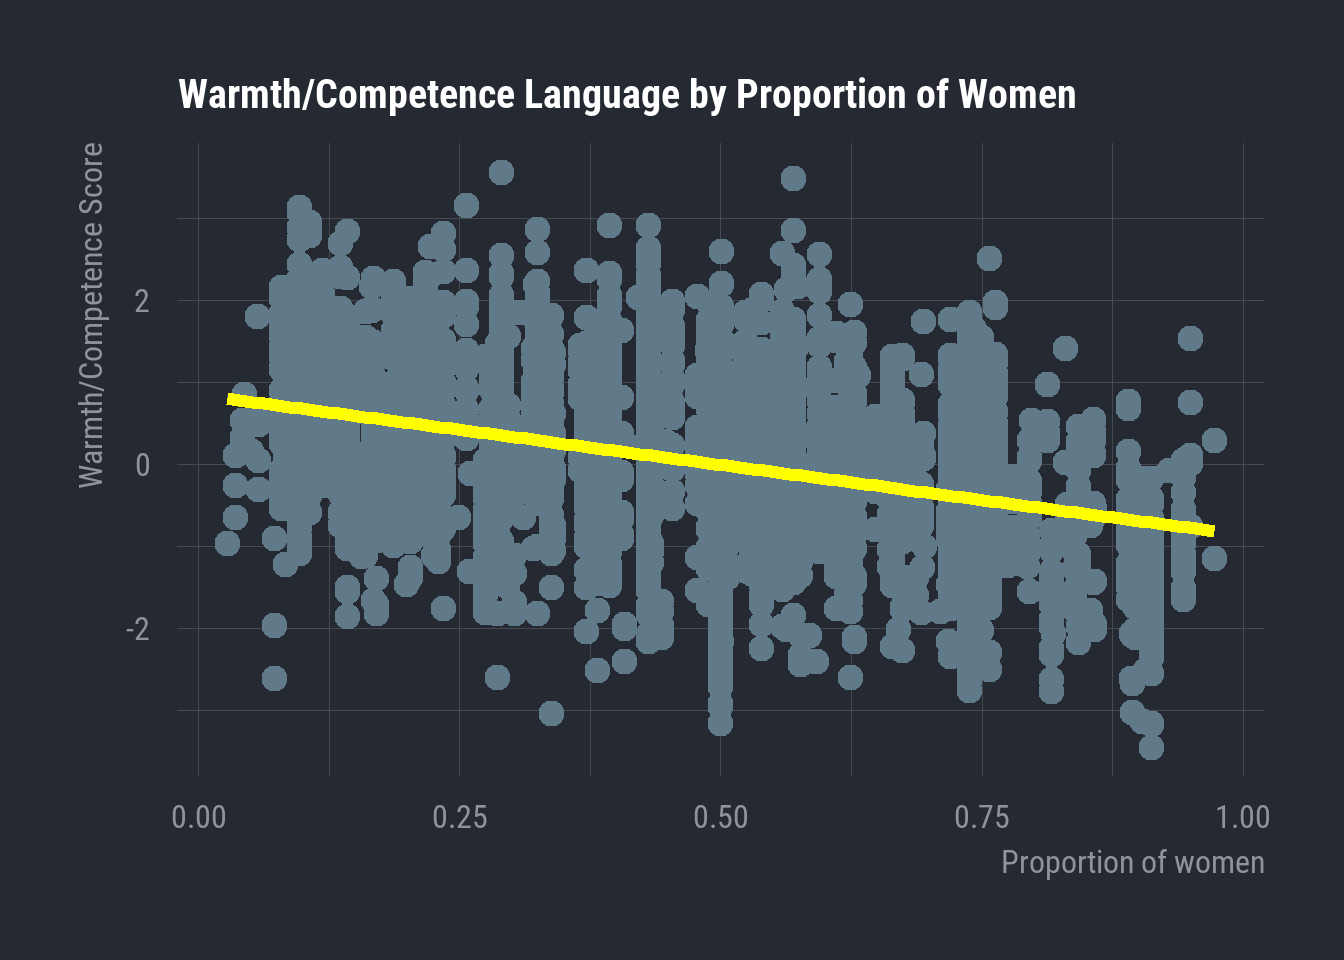
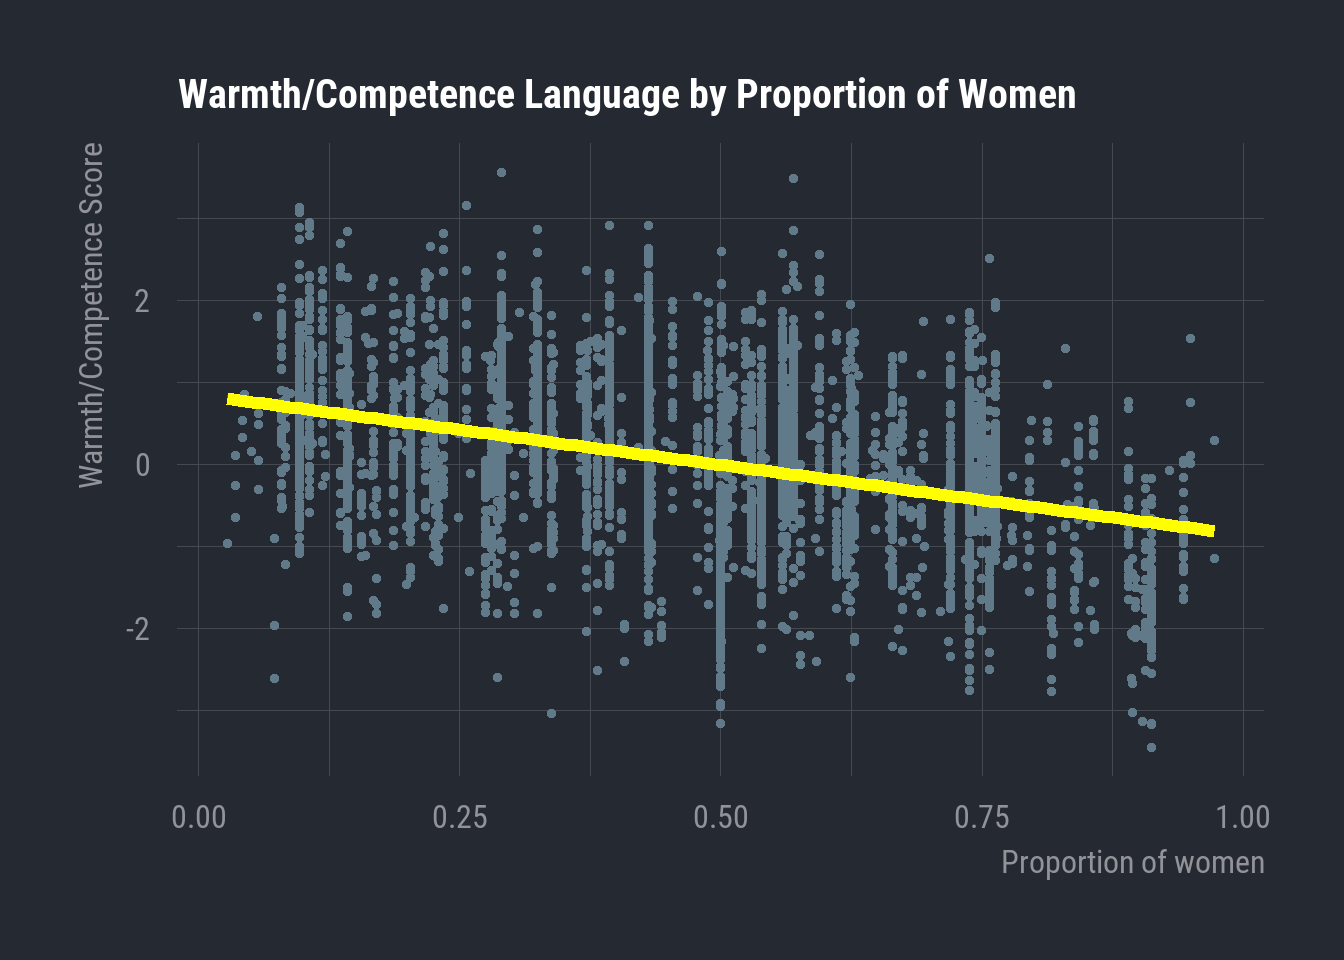
Reducing point size in GLM.qmd plots

diff --git a/docs/general_linear_model.html b/docs/general_linear_model.html
@@ -374,23 +374,23 @@ window.Quarto = {
 <p>Let’s take a look at one such combination of variables.</p>
 <div class="cell">
 <div class="cell-output-display">
-<div id="hhenulwehp" style="padding-left:0px;padding-right:0px;padding-top:10px;padding-bottom:10px;overflow-x:auto;overflow-y:auto;width:auto;height:auto;">
-<style>#hhenulwehp table {
+<div id="mmmtnuhhvp" style="padding-left:0px;padding-right:0px;padding-top:10px;padding-bottom:10px;overflow-x:auto;overflow-y:auto;width:auto;height:auto;">
+<style>#mmmtnuhhvp table {
   font-family: system-ui, 'Segoe UI', Roboto, Helvetica, Arial, sans-serif, 'Apple Color Emoji', 'Segoe UI Emoji', 'Segoe UI Symbol', 'Noto Color Emoji';
   -webkit-font-smoothing: antialiased;
   -moz-osx-font-smoothing: grayscale;
 }
 
-#hhenulwehp thead, #hhenulwehp tbody, #hhenulwehp tfoot, #hhenulwehp tr, #hhenulwehp td, #hhenulwehp th {
+#mmmtnuhhvp thead, #mmmtnuhhvp tbody, #mmmtnuhhvp tfoot, #mmmtnuhhvp tr, #mmmtnuhhvp td, #mmmtnuhhvp th {
   border-style: none;
 }
 
-#hhenulwehp p {
+#mmmtnuhhvp p {
   margin: 0;
   padding: 0;
 }
 
-#hhenulwehp .gt_table {
+#mmmtnuhhvp .gt_table {
   display: table;
   border-collapse: collapse;
   line-height: normal;
@@ -416,12 +416,12 @@ window.Quarto = {
   border-left-color: #D3D3D3;
 }
 
-#hhenulwehp .gt_caption {
+#mmmtnuhhvp .gt_caption {
   padding-top: 4px;
   padding-bottom: 4px;
 }
 
-#hhenulwehp .gt_title {
+#mmmtnuhhvp .gt_title {
   color: #333333;
   font-size: 125%;
   font-weight: initial;
@@ -433,7 +433,7 @@ window.Quarto = {
   border-bottom-width: 0;
 }
 
-#hhenulwehp .gt_subtitle {
+#mmmtnuhhvp .gt_subtitle {
   color: #333333;
   font-size: 85%;
   font-weight: initial;
@@ -445,7 +445,7 @@ window.Quarto = {
   border-top-width: 0;
 }
 
-#hhenulwehp .gt_heading {
+#mmmtnuhhvp .gt_heading {
   background-color: #FFFFFF;
   text-align: center;
   border-bottom-color: #FFFFFF;
@@ -457,13 +457,13 @@ window.Quarto = {
   border-right-color: #D3D3D3;
 }
 
-#hhenulwehp .gt_bottom_border {
+#mmmtnuhhvp .gt_bottom_border {
   border-bottom-style: solid;
   border-bottom-width: 2px;
   border-bottom-color: #D3D3D3;
 }
 
-#hhenulwehp .gt_col_headings {
+#mmmtnuhhvp .gt_col_headings {
   border-top-style: solid;
   border-top-width: 2px;
   border-top-color: #D3D3D3;
@@ -478,7 +478,7 @@ window.Quarto = {
   border-right-color: #D3D3D3;
 }
 
-#hhenulwehp .gt_col_heading {
+#mmmtnuhhvp .gt_col_heading {
   color: #333333;
   background-color: #FFFFFF;
   font-size: 100%;
@@ -498,7 +498,7 @@ window.Quarto = {
   overflow-x: hidden;
 }
 
-#hhenulwehp .gt_column_spanner_outer {
+#mmmtnuhhvp .gt_column_spanner_outer {
   color: #333333;
   background-color: #FFFFFF;
   font-size: 100%;
@@ -510,15 +510,15 @@ window.Quarto = {
   padding-right: 4px;
 }
 
-#hhenulwehp .gt_column_spanner_outer:first-child {
+#mmmtnuhhvp .gt_column_spanner_outer:first-child {
   padding-left: 0;
 }
 
-#hhenulwehp .gt_column_spanner_outer:last-child {
+#mmmtnuhhvp .gt_column_spanner_outer:last-child {
   padding-right: 0;
 }
 
-#hhenulwehp .gt_column_spanner {
+#mmmtnuhhvp .gt_column_spanner {
   border-bottom-style: solid;
   border-bottom-width: 2px;
   border-bottom-color: #D3D3D3;
@@ -530,11 +530,11 @@ window.Quarto = {
   width: 100%;
 }
 
-#hhenulwehp .gt_spanner_row {
+#mmmtnuhhvp .gt_spanner_row {
   border-bottom-style: hidden;
 }
 
-#hhenulwehp .gt_group_heading {
+#mmmtnuhhvp .gt_group_heading {
   padding-top: 8px;
   padding-bottom: 8px;
   padding-left: 5px;
@@ -560,7 +560,7 @@ window.Quarto = {
   text-align: left;
 }
 
-#hhenulwehp .gt_empty_group_heading {
+#mmmtnuhhvp .gt_empty_group_heading {
   padding: 0.5px;
   color: #333333;
   background-color: #FFFFFF;
@@ -575,15 +575,15 @@ window.Quarto = {
   vertical-align: middle;
 }
 
-#hhenulwehp .gt_from_md > :first-child {
+#mmmtnuhhvp .gt_from_md > :first-child {
   margin-top: 0;
 }
 
-#hhenulwehp .gt_from_md > :last-child {
+#mmmtnuhhvp .gt_from_md > :last-child {
   margin-bottom: 0;
 }
 
-#hhenulwehp .gt_row {
+#mmmtnuhhvp .gt_row {
   padding-top: 8px;
   padding-bottom: 8px;
   padding-left: 5px;
@@ -602,7 +602,7 @@ window.Quarto = {
   overflow-x: hidden;
 }
 
-#hhenulwehp .gt_stub {
+#mmmtnuhhvp .gt_stub {
   color: #333333;
   background-color: #FFFFFF;
   font-size: 100%;
@@ -615,7 +615,7 @@ window.Quarto = {
   padding-right: 5px;
 }
 
-#hhenulwehp .gt_stub_row_group {
+#mmmtnuhhvp .gt_stub_row_group {
   color: #333333;
   background-color: #FFFFFF;
   font-size: 100%;
@@ -629,15 +629,15 @@ window.Quarto = {
   vertical-align: top;
 }
 
-#hhenulwehp .gt_row_group_first td {
+#mmmtnuhhvp .gt_row_group_first td {
   border-top-width: 2px;
 }
 
-#hhenulwehp .gt_row_group_first th {
+#mmmtnuhhvp .gt_row_group_first th {
   border-top-width: 2px;
 }
 
-#hhenulwehp .gt_summary_row {
+#mmmtnuhhvp .gt_summary_row {
   color: #333333;
   background-color: #FFFFFF;
   text-transform: inherit;
@@ -647,16 +647,16 @@ window.Quarto = {
   padding-right: 5px;
 }
 
-#hhenulwehp .gt_first_summary_row {
+#mmmtnuhhvp .gt_first_summary_row {
   border-top-style: solid;
   border-top-color: #D3D3D3;
 }
 
-#hhenulwehp .gt_first_summary_row.thick {
+#mmmtnuhhvp .gt_first_summary_row.thick {
   border-top-width: 2px;
 }
 
-#hhenulwehp .gt_last_summary_row {
+#mmmtnuhhvp .gt_last_summary_row {
   padding-top: 8px;
   padding-bottom: 8px;
   padding-left: 5px;
@@ -666,7 +666,7 @@ window.Quarto = {
   border-bottom-color: #D3D3D3;
 }
 
-#hhenulwehp .gt_grand_summary_row {
+#mmmtnuhhvp .gt_grand_summary_row {
   color: #333333;
   background-color: #FFFFFF;
   text-transform: inherit;
@@ -676,7 +676,7 @@ window.Quarto = {
   padding-right: 5px;
 }
 
-#hhenulwehp .gt_first_grand_summary_row {
+#mmmtnuhhvp .gt_first_grand_summary_row {
   padding-top: 8px;
   padding-bottom: 8px;
   padding-left: 5px;
@@ -686,7 +686,7 @@ window.Quarto = {
   border-top-color: #D3D3D3;
 }
 
-#hhenulwehp .gt_last_grand_summary_row_top {
+#mmmtnuhhvp .gt_last_grand_summary_row_top {
   padding-top: 8px;
   padding-bottom: 8px;
   padding-left: 5px;
@@ -696,11 +696,11 @@ window.Quarto = {
   border-bottom-color: #D3D3D3;
 }
 
-#hhenulwehp .gt_striped {
+#mmmtnuhhvp .gt_striped {
   background-color: rgba(128, 128, 128, 0.05);
 }
 
-#hhenulwehp .gt_table_body {
+#mmmtnuhhvp .gt_table_body {
   border-top-style: solid;
   border-top-width: 2px;
   border-top-color: #D3D3D3;
@@ -709,7 +709,7 @@ window.Quarto = {
   border-bottom-color: #D3D3D3;
 }
 
-#hhenulwehp .gt_footnotes {
+#mmmtnuhhvp .gt_footnotes {
   color: #333333;
   background-color: #FFFFFF;
   border-bottom-style: none;
@@ -723,7 +723,7 @@ window.Quarto = {
   border-right-color: #D3D3D3;
 }
 
-#hhenulwehp .gt_footnote {
+#mmmtnuhhvp .gt_footnote {
   margin: 0px;
   font-size: 90%;
   padding-top: 4px;
@@ -732,7 +732,7 @@ window.Quarto = {
   padding-right: 5px;
 }
 
-#hhenulwehp .gt_sourcenotes {
+#mmmtnuhhvp .gt_sourcenotes {
   color: #333333;
   background-color: #FFFFFF;
   border-bottom-style: none;
@@ -746,7 +746,7 @@ window.Quarto = {
   border-right-color: #D3D3D3;
 }
 
-#hhenulwehp .gt_sourcenote {
+#mmmtnuhhvp .gt_sourcenote {
   font-size: 90%;
   padding-top: 4px;
   padding-bottom: 4px;
@@ -754,72 +754,72 @@ window.Quarto = {
   padding-right: 5px;
 }
 
-#hhenulwehp .gt_left {
+#mmmtnuhhvp .gt_left {
   text-align: left;
 }
 
-#hhenulwehp .gt_center {
+#mmmtnuhhvp .gt_center {
   text-align: center;
 }
 
-#hhenulwehp .gt_right {
+#mmmtnuhhvp .gt_right {
   text-align: right;
   font-variant-numeric: tabular-nums;
 }
 
-#hhenulwehp .gt_font_normal {
+#mmmtnuhhvp .gt_font_normal {
   font-weight: normal;
 }
 
-#hhenulwehp .gt_font_bold {
+#mmmtnuhhvp .gt_font_bold {
   font-weight: bold;
 }
 
-#hhenulwehp .gt_font_italic {
+#mmmtnuhhvp .gt_font_italic {
   font-style: italic;
 }
 
-#hhenulwehp .gt_super {
+#mmmtnuhhvp .gt_super {
   font-size: 65%;
 }
 
-#hhenulwehp .gt_footnote_marks {
+#mmmtnuhhvp .gt_footnote_marks {
   font-size: 75%;
   vertical-align: 0.4em;
   position: initial;
 }
 
-#hhenulwehp .gt_asterisk {
+#mmmtnuhhvp .gt_asterisk {
   font-size: 100%;
   vertical-align: 0;
 }
 
-#hhenulwehp .gt_indent_1 {
+#mmmtnuhhvp .gt_indent_1 {
   text-indent: 5px;
 }
 
-#hhenulwehp .gt_indent_2 {
+#mmmtnuhhvp .gt_indent_2 {
   text-indent: 10px;
 }
 
-#hhenulwehp .gt_indent_3 {
+#mmmtnuhhvp .gt_indent_3 {
   text-indent: 15px;
 }
 
-#hhenulwehp .gt_indent_4 {
+#mmmtnuhhvp .gt_indent_4 {
   text-indent: 20px;
 }
 
-#hhenulwehp .gt_indent_5 {
+#mmmtnuhhvp .gt_indent_5 {
   text-indent: 25px;
 }
 
-#hhenulwehp .katex-display {
+#mmmtnuhhvp .katex-display {
   display: inline-flex !important;
   margin-bottom: 0.75em !important;
 }
 
-#hhenulwehp div.Reactable > div.rt-table > div.rt-thead > div.rt-tr.rt-tr-group-header > div.rt-th-group:after {
+#mmmtnuhhvp div.Reactable > div.rt-table > div.rt-thead > div.rt-tr.rt-tr-group-header > div.rt-th-group:after {
   height: 0px !important;
 }
 </style>
